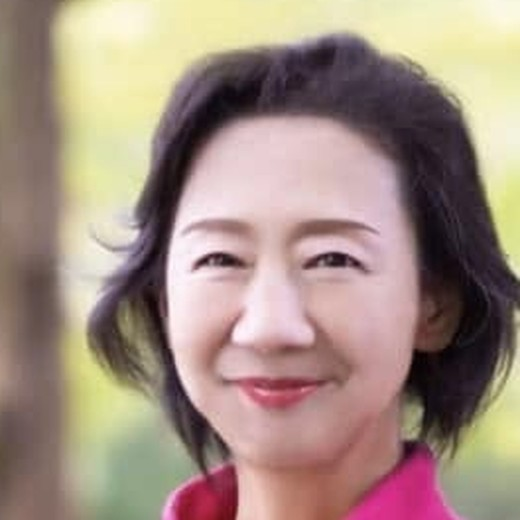
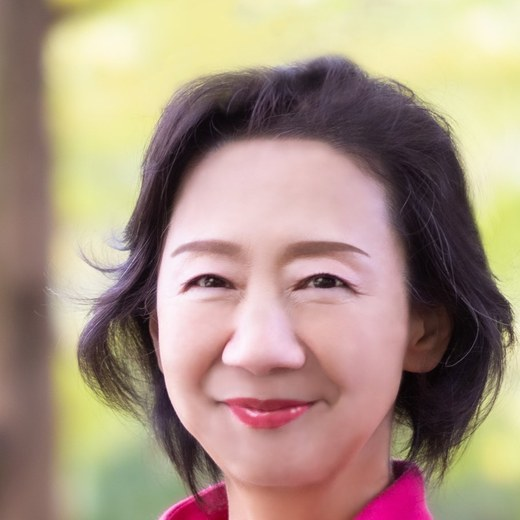
案1：高解像度の写真をトップ全面に、プロフィール写真も差し替え
Claude-Session: https://claude.ai/code/session_01B3WqZVos6vfE4sttqXSSTL

diff --git a/1/index.html b/1/index.html
@@ -8,12 +8,12 @@
 <meta name="description" content="宇都宮市議会議員 福田ちえ（福田智恵）の公式サイト。子ども・健康・地域の支え合いに取り組んでいます。">
 <meta property="og:title" content="福田ちえ｜宇都宮市議会議員">
 <meta property="og:description" content="宇都宮市議会議員 福田ちえ（福田智恵）の公式サイト。子ども・健康・地域の支え合いに取り組んでいます。">
-<meta property="og:image" content="images/chie.jpg">
+<meta property="og:image" content="images/hero.jpg">
 <meta name="theme-color" content="#C8176F">
 <link rel="preconnect" href="https://fonts.googleapis.com">
 <link rel="preconnect" href="https://fonts.gstatic.com" crossorigin>
 <link href="https://fonts.googleapis.com/css2?family=Noto+Sans+JP:wght@400;500;700&family=Roboto+Condensed:wght@400;700&family=Zen+Old+Mincho:wght@500;700&family=Yuji+Syuku&display=swap" rel="stylesheet">
-<link rel="stylesheet" href="css/style.css?v=20261026d">
+<link rel="stylesheet" href="css/style.css?v=20261027a">
 </head>
 <body>
 <div class="page">
@@ -27,7 +27,7 @@
 </header>
 
 <main>
-<section class="hero">
+<section class="hero" role="img" aria-label="福田ちえの写真">
   <div class="wrap hero__in">
     <div class="hero__txt">
       <h1 class="hero__copy"><span class="l">誰もが</span><span class="l">居場所<small>と</small></span><br class="pc"><span class="l">出番のある</span><span class="l">まちへ。</span></h1>
@@ -37,7 +37,6 @@
       <a href="profile.html" class="btn btn--fill">福田ちえについて<svg class="arw" width="16" height="16" viewBox="0 0 16 16" fill="none" stroke="currentColor" stroke-width="1.6" stroke-linecap="round" stroke-linejoin="round"><path d="M2 8h11M9 4l4 4-4 4"/></svg></a>
     </div>
   </div>
-  <div class="hero__photo"><img src="images/chie.jpg" alt="福田ちえ" width="718" height="968"></div>
 </section>
 
 <div class="wrap">
@@ -110,6 +109,6 @@
 <div class="viewsw" role="group" aria-label="表示切替"><span>表示切替</span><button data-view="auto" aria-pressed="true">自動</button><button data-view="pc" aria-pressed="false">PC</button><button data-view="sp" aria-pressed="false">スマホ</button></div>
 <nav class="bnav" aria-label="スマホ用メニュー"><a href="index.html" aria-current=page><svg width="24" height="24" viewBox="0 0 24 24" fill="currentColor"><path d="M12 3 2.5 11h2.7v9.5h5.3v-6h3v6h5.3V11h2.7z"/></svg><span>ホーム</span></a><a href="profile.html"><svg width="24" height="24" viewBox="0 0 24 24" fill="none" stroke="currentColor" stroke-width="1.6"><circle cx="12" cy="8" r="4.2"/><path d="M4 21c0-4.5 3.6-7.5 8-7.5s8 3 8 7.5"/></svg><span>プロフィール</span></a><a href="policy.html"><svg width="24" height="24" viewBox="0 0 24 24" fill="none" stroke="currentColor" stroke-width="1.6"><rect x="5" y="3" width="14" height="18" rx="2"/><path d="M8.5 8h7M8.5 12h7M8.5 16h4"/></svg><span>政策</span></a><a href="results.html"><svg width="24" height="24" viewBox="0 0 24 24" fill="none" stroke="currentColor" stroke-width="1.6" stroke-linecap="round"><path d="M5 20v-6M10 20v-9M15 20v-5M20 20V8"/><path d="M4 10l5-4 5 3 6-6"/><path d="M16 3h4v4"/></svg><span>実績</span></a><a href="index.html#office"><svg width="24" height="24" viewBox="0 0 24 24" fill="none" stroke="currentColor" stroke-width="1.6"><rect x="3" y="5" width="18" height="14" rx="2"/><path d="M3.5 6.5 12 13l8.5-6.5"/></svg><span>お問い合わせ</span></a></nav>
 </div>
-<script src="js/main.js?v=20261026d"></script>
+<script src="js/main.js?v=20261027a"></script>
 </body>
 </html>

diff --git a/1/chienowa.html b/1/chienowa.html
@@ -8,12 +8,12 @@
 <meta name="description" content="地域支え合い研究会「ちえの輪」。地域のキーパーソンとともに支え合いのまちづくりを考える毎月の勉強会。">
 <meta property="og:title" content="ちえの輪｜福田ちえ 宇都宮市議会議員">
 <meta property="og:description" content="地域支え合い研究会「ちえの輪」。地域のキーパーソンとともに支え合いのまちづくりを考える毎月の勉強会。">
-<meta property="og:image" content="images/chie.jpg">
+<meta property="og:image" content="images/hero.jpg">
 <meta name="theme-color" content="#C8176F">
 <link rel="preconnect" href="https://fonts.googleapis.com">
 <link rel="preconnect" href="https://fonts.gstatic.com" crossorigin>
 <link href="https://fonts.googleapis.com/css2?family=Noto+Sans+JP:wght@400;500;700&family=Roboto+Condensed:wght@400;700&family=Zen+Old+Mincho:wght@500;700&family=Yuji+Syuku&display=swap" rel="stylesheet">
-<link rel="stylesheet" href="css/style.css?v=20261026d">
+<link rel="stylesheet" href="css/style.css?v=20261027a">
 </head>
 <body>
 <div class="page">
@@ -68,6 +68,6 @@
 <div class="viewsw" role="group" aria-label="表示切替"><span>表示切替</span><button data-view="auto" aria-pressed="true">自動</button><button data-view="pc" aria-pressed="false">PC</button><button data-view="sp" aria-pressed="false">スマホ</button></div>
 <nav class="bnav" aria-label="スマホ用メニュー"><a href="index.html"><svg width="24" height="24" viewBox="0 0 24 24" fill="currentColor"><path d="M12 3 2.5 11h2.7v9.5h5.3v-6h3v6h5.3V11h2.7z"/></svg><span>ホーム</span></a><a href="profile.html"><svg width="24" height="24" viewBox="0 0 24 24" fill="none" stroke="currentColor" stroke-width="1.6"><circle cx="12" cy="8" r="4.2"/><path d="M4 21c0-4.5 3.6-7.5 8-7.5s8 3 8 7.5"/></svg><span>プロフィール</span></a><a href="policy.html"><svg width="24" height="24" viewBox="0 0 24 24" fill="none" stroke="currentColor" stroke-width="1.6"><rect x="5" y="3" width="14" height="18" rx="2"/><path d="M8.5 8h7M8.5 12h7M8.5 16h4"/></svg><span>政策</span></a><a href="results.html"><svg width="24" height="24" viewBox="0 0 24 24" fill="none" stroke="currentColor" stroke-width="1.6" stroke-linecap="round"><path d="M5 20v-6M10 20v-9M15 20v-5M20 20V8"/><path d="M4 10l5-4 5 3 6-6"/><path d="M16 3h4v4"/></svg><span>実績</span></a><a href="index.html#office"><svg width="24" height="24" viewBox="0 0 24 24" fill="none" stroke="currentColor" stroke-width="1.6"><rect x="3" y="5" width="18" height="14" rx="2"/><path d="M3.5 6.5 12 13l8.5-6.5"/></svg><span>お問い合わせ</span></a></nav>
 </div>
-<script src="js/main.js?v=20261026d"></script>
+<script src="js/main.js?v=20261027a"></script>
 </body>
 </html>

diff --git a/1/policy.html b/1/policy.html
@@ -8,12 +8,12 @@
 <meta name="description" content="健康・生活／子ども・学び／共生・地域。福田ちえの3つのテーマと具体策。">
 <meta property="og:title" content="政策｜福田ちえ 宇都宮市議会議員">
 <meta property="og:description" content="健康・生活／子ども・学び／共生・地域。福田ちえの3つのテーマと具体策。">
-<meta property="og:image" content="images/chie.jpg">
+<meta property="og:image" content="images/hero.jpg">
 <meta name="theme-color" content="#C8176F">
 <link rel="preconnect" href="https://fonts.googleapis.com">
 <link rel="preconnect" href="https://fonts.gstatic.com" crossorigin>
 <link href="https://fonts.googleapis.com/css2?family=Noto+Sans+JP:wght@400;500;700&family=Roboto+Condensed:wght@400;700&family=Zen+Old+Mincho:wght@500;700&family=Yuji+Syuku&display=swap" rel="stylesheet">
-<link rel="stylesheet" href="css/style.css?v=20261026d">
+<link rel="stylesheet" href="css/style.css?v=20261027a">
 </head>
 <body>
 <div class="page">
@@ -81,6 +81,6 @@
 <div class="viewsw" role="group" aria-label="表示切替"><span>表示切替</span><button data-view="auto" aria-pressed="true">自動</button><button data-view="pc" aria-pressed="false">PC</button><button data-view="sp" aria-pressed="false">スマホ</button></div>
 <nav class="bnav" aria-label="スマホ用メニュー"><a href="index.html"><svg width="24" height="24" viewBox="0 0 24 24" fill="currentColor"><path d="M12 3 2.5 11h2.7v9.5h5.3v-6h3v6h5.3V11h2.7z"/></svg><span>ホーム</span></a><a href="profile.html"><svg width="24" height="24" viewBox="0 0 24 24" fill="none" stroke="currentColor" stroke-width="1.6"><circle cx="12" cy="8" r="4.2"/><path d="M4 21c0-4.5 3.6-7.5 8-7.5s8 3 8 7.5"/></svg><span>プロフィール</span></a><a href="policy.html" aria-current=page><svg width="24" height="24" viewBox="0 0 24 24" fill="none" stroke="currentColor" stroke-width="1.6"><rect x="5" y="3" width="14" height="18" rx="2"/><path d="M8.5 8h7M8.5 12h7M8.5 16h4"/></svg><span>政策</span></a><a href="results.html"><svg width="24" height="24" viewBox="0 0 24 24" fill="none" stroke="currentColor" stroke-width="1.6" stroke-linecap="round"><path d="M5 20v-6M10 20v-9M15 20v-5M20 20V8"/><path d="M4 10l5-4 5 3 6-6"/><path d="M16 3h4v4"/></svg><span>実績</span></a><a href="index.html#office"><svg width="24" height="24" viewBox="0 0 24 24" fill="none" stroke="currentColor" stroke-width="1.6"><rect x="3" y="5" width="18" height="14" rx="2"/><path d="M3.5 6.5 12 13l8.5-6.5"/></svg><span>お問い合わせ</span></a></nav>
 </div>
-<script src="js/main.js?v=20261026d"></script>
+<script src="js/main.js?v=20261027a"></script>
 </body>
 </html>

diff --git a/1/profile.html b/1/profile.html
@@ -8,12 +8,12 @@
 <meta name="description" content="学童の保護者会長、PTA会長から市議会へ。福田ちえのこれまで。">
 <meta property="og:title" content="プロフィール｜福田ちえ 宇都宮市議会議員">
 <meta property="og:description" content="学童の保護者会長、PTA会長から市議会へ。福田ちえのこれまで。">
-<meta property="og:image" content="images/chie.jpg">
+<meta property="og:image" content="images/hero.jpg">
 <meta name="theme-color" content="#C8176F">
 <link rel="preconnect" href="https://fonts.googleapis.com">
 <link rel="preconnect" href="https://fonts.gstatic.com" crossorigin>
 <link href="https://fonts.googleapis.com/css2?family=Noto+Sans+JP:wght@400;500;700&family=Roboto+Condensed:wght@400;700&family=Zen+Old+Mincho:wght@500;700&family=Yuji+Syuku&display=swap" rel="stylesheet">
-<link rel="stylesheet" href="css/style.css?v=20261026d">
+<link rel="stylesheet" href="css/style.css?v=20261027a">
 </head>
 <body>
 <div class="page">
@@ -106,6 +106,6 @@
 <div class="viewsw" role="group" aria-label="表示切替"><span>表示切替</span><button data-view="auto" aria-pressed="true">自動</button><button data-view="pc" aria-pressed="false">PC</button><button data-view="sp" aria-pressed="false">スマホ</button></div>
 <nav class="bnav" aria-label="スマホ用メニュー"><a href="index.html"><svg width="24" height="24" viewBox="0 0 24 24" fill="currentColor"><path d="M12 3 2.5 11h2.7v9.5h5.3v-6h3v6h5.3V11h2.7z"/></svg><span>ホーム</span></a><a href="profile.html" aria-current=page><svg width="24" height="24" viewBox="0 0 24 24" fill="none" stroke="currentColor" stroke-width="1.6"><circle cx="12" cy="8" r="4.2"/><path d="M4 21c0-4.5 3.6-7.5 8-7.5s8 3 8 7.5"/></svg><span>プロフィール</span></a><a href="policy.html"><svg width="24" height="24" viewBox="0 0 24 24" fill="none" stroke="currentColor" stroke-width="1.6"><rect x="5" y="3" width="14" height="18" rx="2"/><path d="M8.5 8h7M8.5 12h7M8.5 16h4"/></svg><span>政策</span></a><a href="results.html"><svg width="24" height="24" viewBox="0 0 24 24" fill="none" stroke="currentColor" stroke-width="1.6" stroke-linecap="round"><path d="M5 20v-6M10 20v-9M15 20v-5M20 20V8"/><path d="M4 10l5-4 5 3 6-6"/><path d="M16 3h4v4"/></svg><span>実績</span></a><a href="index.html#office"><svg width="24" height="24" viewBox="0 0 24 24" fill="none" stroke="currentColor" stroke-width="1.6"><rect x="3" y="5" width="18" height="14" rx="2"/><path d="M3.5 6.5 12 13l8.5-6.5"/></svg><span>お問い合わせ</span></a></nav>
 </div>
-<script src="js/main.js?v=20261026d"></script>
+<script src="js/main.js?v=20261027a"></script>
 </body>
 </html>

diff --git a/1/results.html b/1/results.html
@@ -8,12 +8,12 @@
 <meta name="description" content="議会で提案し続けて、形になってきたこと。">
 <meta property="og:title" content="実績｜福田ちえ 宇都宮市議会議員">
 <meta property="og:description" content="議会で提案し続けて、形になってきたこと。">
-<meta property="og:image" content="images/chie.jpg">
+<meta property="og:image" content="images/hero.jpg">
 <meta name="theme-color" content="#C8176F">
 <link rel="preconnect" href="https://fonts.googleapis.com">
 <link rel="preconnect" href="https://fonts.gstatic.com" crossorigin>
 <link href="https://fonts.googleapis.com/css2?family=Noto+Sans+JP:wght@400;500;700&family=Roboto+Condensed:wght@400;700&family=Zen+Old+Mincho:wght@500;700&family=Yuji+Syuku&display=swap" rel="stylesheet">
-<link rel="stylesheet" href="css/style.css?v=20261026d">
+<link rel="stylesheet" href="css/style.css?v=20261027a">
 </head>
 <body>
 <div class="page">
@@ -76,6 +76,6 @@
 <div class="viewsw" role="group" aria-label="表示切替"><span>表示切替</span><button data-view="auto" aria-pressed="true">自動</button><button data-view="pc" aria-pressed="false">PC</button><button data-view="sp" aria-pressed="false">スマホ</button></div>
 <nav class="bnav" aria-label="スマホ用メニュー"><a href="index.html"><svg width="24" height="24" viewBox="0 0 24 24" fill="currentColor"><path d="M12 3 2.5 11h2.7v9.5h5.3v-6h3v6h5.3V11h2.7z"/></svg><span>ホーム</span></a><a href="profile.html"><svg width="24" height="24" viewBox="0 0 24 24" fill="none" stroke="currentColor" stroke-width="1.6"><circle cx="12" cy="8" r="4.2"/><path d="M4 21c0-4.5 3.6-7.5 8-7.5s8 3 8 7.5"/></svg><span>プロフィール</span></a><a href="policy.html"><svg width="24" height="24" viewBox="0 0 24 24" fill="none" stroke="currentColor" stroke-width="1.6"><rect x="5" y="3" width="14" height="18" rx="2"/><path d="M8.5 8h7M8.5 12h7M8.5 16h4"/></svg><span>政策</span></a><a href="results.html" aria-current=page><svg width="24" height="24" viewBox="0 0 24 24" fill="none" stroke="currentColor" stroke-width="1.6" stroke-linecap="round"><path d="M5 20v-6M10 20v-9M15 20v-5M20 20V8"/><path d="M4 10l5-4 5 3 6-6"/><path d="M16 3h4v4"/></svg><span>実績</span></a><a href="index.html#office"><svg width="24" height="24" viewBox="0 0 24 24" fill="none" stroke="currentColor" stroke-width="1.6"><rect x="3" y="5" width="18" height="14" rx="2"/><path d="M3.5 6.5 12 13l8.5-6.5"/></svg><span>お問い合わせ</span></a></nav>
 </div>
-<script src="js/main.js?v=20261026d"></script>
+<script src="js/main.js?v=20261027a"></script>
 </body>
 </html>

diff --git a/1/css/style.css b/1/css/style.css
@@ -537,3 +537,20 @@ svg.ic{width:60px;height:60px}
   .hero__area{display:block;margin-right:0;background:none;padding:0;font-size:12.5px;margin-top:10px;text-shadow:0 0 6px #fff,0 0 6px #fff}
   .hero__area b{display:block}
 }
+
+/* =========================================================
+   v2.5 高解像度写真を全面に（人物は右、文字は左のボケの上）
+   ========================================================= */
+.hero{background:#F3F1E4 url(../images/hero.jpg?v=20261027a) 72% 8%/cover no-repeat}
+.hero::before{content:"";position:absolute;inset:0;background:linear-gradient(90deg,rgba(255,255,255,.88) 0%,rgba(255,255,255,.72) 32%,rgba(255,255,255,.15) 56%,rgba(255,255,255,0) 66%);pointer-events:none}
+.hero__in{position:relative;z-index:1;height:clamp(520px,44vw,700px)}
+.hero__photo{display:none}
+@container page (max-width:1100px){
+  .hero{background-position:68% 8%}
+  .hero::before{background:linear-gradient(90deg,rgba(255,255,255,.9) 0%,rgba(255,255,255,.75) 42%,rgba(255,255,255,0) 70%)}
+}
+@container page (max-width:767px){
+  .hero{background:#EEF0DD url(../images/hero-sp.jpg?v=20261027a) 15% top/cover no-repeat}
+  .hero::before{background:linear-gradient(90deg,rgba(255,255,255,.82) 0%,rgba(255,255,255,.55) 42%,rgba(255,255,255,0) 62%)}
+  .hero__in{min-height:600px}
+}
